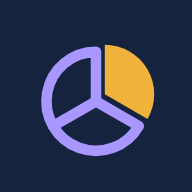
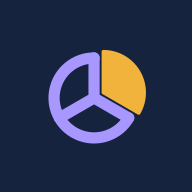
Icônes nettes : redessinées en vectoriel et rendues avec lissage des bords
Claude-Session: https://claude.ai/code/session_01BSJJ47UcXAZ5iQxA68haju

Changed region(s): [[0.1875, 0.2188, 0.8125, 0.8125]]

diff --git a/index.html b/index.html
@@ -9,9 +9,9 @@
 <meta name="apple-mobile-web-app-title" content="Nexus Track">
 <meta name="apple-mobile-web-app-status-bar-style" content="black-translucent">
 <link rel="manifest" href="manifest.webmanifest">
-<link rel="apple-touch-icon" href="apple-touch-icon.png?v=tl2">
+<link rel="apple-touch-icon" href="apple-touch-icon.png?v=tl3">
 <title>Nexus Track</title>
-<link rel="icon" href="icon-192.png?v=tl2">
+<link rel="icon" href="icon-192.png?v=tl3">
 <style>
 *{box-sizing:border-box;-webkit-tap-highlight-color:transparent}
 :root{--bg:#f3f4fa;--card:#fff;--card2:#f6f7fc;--text:#151834;--muted:#6c7193;--line:#e4e6f1;--pri:#5b4cf0;--pri2:#00b8a0;--soft:#eeebff;--danger:#e5484d;--warn:#b45309;--warn-bg:#fff4e0;--ok:#16a34a;--shadow:0 4px 18px rgba(28,30,80,.07);--r:18px;color-scheme:light}
@@ -1809,7 +1809,7 @@ function trialBox(){const ti=trialInfo();
 let TLW_FULL=false;
 (function(){try{const st=document.createElement('style');st.textContent=".tlw{max-width:460px;margin:0 auto;min-height:100vh;background:#f5f7fc;color:#0e1631;font-family:system-ui,-apple-system,'Segoe UI',Roboto,sans-serif;display:flex;flex-direction:column}.tlw-hero{background:#16233f;color:#fff;padding:22px 22px 80px;border-radius:0 0 26px 26px}.tlw-top{display:flex;align-items:center;justify-content:space-between;gap:10px}.tlw-ap{display:flex;align-items:center;gap:10px}.tlw-ap img{width:38px;height:38px;border-radius:10px}.tlw-ap b{display:block;font-size:17px;line-height:1.2}.tlw-ap small{display:block;font-size:12px;color:#b9c3e6}.tlw h1{font-size:30px;line-height:1.15;letter-spacing:-.5px;margin:26px 0 10px;color:#fff}.tlw-hero p{margin:0;color:#c9d1ee;font-size:15px;line-height:1.5}.tlw-prev{margin:-60px 18px 0;background:#fff;border:1px solid #e3e8f2;border-radius:18px;padding:16px;box-shadow:0 10px 30px rgba(16,26,61,.16);position:relative;font-size:13px}.tlw-ph{display:flex;justify-content:space-between;font-size:12px;font-weight:600;color:#4a5468}.tlw-big{font-size:24px;font-weight:800;margin:4px 0 10px;letter-spacing:-.3px}.tlw-row{display:flex;align-items:center;gap:10px;margin-top:9px}.tlw-row span{flex:1}.tlw-row b{font-size:13px}.tlw-bar{height:6px;border-radius:6px;background:#e8ecf4;margin-top:4px}.tlw-bar i{display:block;height:6px;border-radius:6px;background:var(--tlw)}.tlw-av{width:28px;height:28px;border-radius:50%;background:#e8ecf4;display:grid;place-items:center;font-weight:700;font-size:12px;flex:none}.tlw-tip{margin-top:10px;padding:9px 11px;border-radius:12px;background:#fff6e8;color:#7a4508;font-weight:600;font-size:12.5px}.tlw-feats{padding:20px 22px 0;display:flex;flex-direction:column;gap:14px}.tlw-f{display:flex;gap:12px;align-items:center}.tlw-f i{width:40px;height:40px;border-radius:12px;background:#e9edf8;color:var(--tlw);display:grid;place-items:center;flex:none;font-style:normal}.tlw-f b{display:block;font-size:15px}.tlw-f small{color:#4a5468;font-size:13px}.tlw-cta{padding:22px 22px 10px;margin-top:auto}.tlw-btn{width:100%;min-height:54px;border:0;border-radius:14px;background:var(--tlw);color:#fff;font:700 17px system-ui,sans-serif;cursor:pointer}.tlw-sub{text-align:center;font-size:13.5px;color:#4a5468;margin:8px 0 0}.tlw-sub button{background:none;border:0;color:var(--tlw);font:700 13.5px system-ui,sans-serif;cursor:pointer;padding:8px 4px}.tlw-sw{padding:4px 22px 26px}.tlw-top .chip{background:transparent;color:#fff;border:1px solid #3a4878;min-width:38px;height:32px;padding:0 10px;border-radius:99px;font-weight:700}.tlw-top .chip.on{background:#fff;color:#16233f;border-color:#fff}.tlw-top .lang-row{display:flex;gap:6px}";document.head.appendChild(st)}catch(e){}})();
 function tlwHTML(c){return '<div class="tlw" style="--tlw:'+c.accent+'"><div class="tlw-hero"><div class="tlw-top"><div class="tlw-ap"><img src="'+c.icon+'" alt=""><div><b>'+c.name+'</b><small>'+c.by+'</small></div></div>'+(c.top||'')+'</div>'+'<h1>'+c.l1+'<br>'+c.l2+'</h1><p>'+c.sub+'</p></div><div class="tlw-prev" aria-hidden="true">'+c.prev+'</div><div class="tlw-feats">'+c.feats.map(f=>'<div class="tlw-f"><i>'+f[0]+'</i><div><b>'+f[1]+'</b><small>'+f[2]+'</small></div></div>').join('')+'</div>'+'<div class="tlw-cta"><button type="button" class="tlw-btn" data-act="'+c.start+'">'+c.cta+'</button><p class="tlw-sub">'+c.price+' · <button type="button" data-act="'+c.full+'">'+c.have+'</button></p></div><div class="tlw-sw">'+(c.sw||'')+'</div></div>'}
-function vActivation(){if(!trialInfo().started&&!LICENSED&&!TLW_FULL)return tlwHTML({accent:'#5b4cf0',icon:'icon-192.png?v=tl2',name:'Nexus Track',by:'par Thousand Labs',l1:'Suivez vos ventes.',l2:'Partagez vos gains.',sub:'Pour les équipes, les commerçants et les étudiants entrepreneurs. Sans compte, même sans Internet.',prev:'<div class="tlw-ph"><span>Octobre · 3 membres</span><span>Exemple</span></div><div class="tlw-big">67 000 F de ventes</div><div class="tlw-row"><div class="tlw-av">A</div><span><b>Awa</b><div class="tlw-bar"><i style="width:50%"></i></div></span><b>33 500 F</b></div><div class="tlw-row"><div class="tlw-av">M</div><span><b>Moussa</b><div class="tlw-bar"><i style="width:25%"></i></div></span><b>16 750 F</b></div><div class="tlw-row"><div class="tlw-av">F</div><span><b>Fatou</b><div class="tlw-bar"><i style="width:25%"></i></div></span><b>16 750 F</b></div>',feats:[['<svg width="20" height="20" viewBox="0 0 24 24" fill="none" stroke="currentColor" stroke-width="2" stroke-linecap="round" stroke-linejoin="round" aria-hidden="true"><rect x="4" y="3" width="16" height="18" rx="2"/><path d="M8 8h8M8 12h8M8 16h5"/></svg>','Une vente en 3 secondes','Espèces, Wave, Orange Money ou à crédit'],['<svg width="20" height="20" viewBox="0 0 24 24" fill="none" stroke="currentColor" stroke-width="2" stroke-linecap="round" stroke-linejoin="round" aria-hidden="true"><path d="M12 3v9h9"/><circle cx="12" cy="12" r="9"/></svg>','Partage des gains automatique','Selon vos règles, au franc près'],['<svg width="20" height="20" viewBox="0 0 24 24" fill="none" stroke="currentColor" stroke-width="2" stroke-linecap="round" stroke-linejoin="round" aria-hidden="true"><path d="M20 11a8 8 0 0 0-14.5-4.5L4 8M4 4v4h4"/><path d="M4 13a8 8 0 0 0 14.5 4.5L20 16M20 20v-4h-4"/></svg>','Synchro d’équipe chiffrée','Sans compte ni abonnement']],cta:'Essayer gratuitement 48 h',start:'trialStart',price:'Puis 7 500 F par personne, une seule fois',have:'J’ai déjà un code',full:'lockFull',sw:TLL.switcher()});const id=deviceId();const wa='https://wa.me/'+CONTACT+'?text='+encodeURIComponent('Bonjour, je souhaite activer Nexus Track.\nMon ID appareil : '+id);
+function vActivation(){if(!trialInfo().started&&!LICENSED&&!TLW_FULL)return tlwHTML({accent:'#5b4cf0',icon:'icon-192.png?v=tl3',name:'Nexus Track',by:'par Thousand Labs',l1:'Suivez vos ventes.',l2:'Partagez vos gains.',sub:'Pour les équipes, les commerçants et les étudiants entrepreneurs. Sans compte, même sans Internet.',prev:'<div class="tlw-ph"><span>Octobre · 3 membres</span><span>Exemple</span></div><div class="tlw-big">67 000 F de ventes</div><div class="tlw-row"><div class="tlw-av">A</div><span><b>Awa</b><div class="tlw-bar"><i style="width:50%"></i></div></span><b>33 500 F</b></div><div class="tlw-row"><div class="tlw-av">M</div><span><b>Moussa</b><div class="tlw-bar"><i style="width:25%"></i></div></span><b>16 750 F</b></div><div class="tlw-row"><div class="tlw-av">F</div><span><b>Fatou</b><div class="tlw-bar"><i style="width:25%"></i></div></span><b>16 750 F</b></div>',feats:[['<svg width="20" height="20" viewBox="0 0 24 24" fill="none" stroke="currentColor" stroke-width="2" stroke-linecap="round" stroke-linejoin="round" aria-hidden="true"><rect x="4" y="3" width="16" height="18" rx="2"/><path d="M8 8h8M8 12h8M8 16h5"/></svg>','Une vente en 3 secondes','Espèces, Wave, Orange Money ou à crédit'],['<svg width="20" height="20" viewBox="0 0 24 24" fill="none" stroke="currentColor" stroke-width="2" stroke-linecap="round" stroke-linejoin="round" aria-hidden="true"><path d="M12 3v9h9"/><circle cx="12" cy="12" r="9"/></svg>','Partage des gains automatique','Selon vos règles, au franc près'],['<svg width="20" height="20" viewBox="0 0 24 24" fill="none" stroke="currentColor" stroke-width="2" stroke-linecap="round" stroke-linejoin="round" aria-hidden="true"><path d="M20 11a8 8 0 0 0-14.5-4.5L4 8M4 4v4h4"/><path d="M4 13a8 8 0 0 0 14.5 4.5L20 16M20 20v-4h-4"/></svg>','Synchro d’équipe chiffrée','Sans compte ni abonnement']],cta:'Essayer gratuitement 48 h',start:'trialStart',price:'Puis 7 500 F par personne, une seule fois',have:'J’ai déjà un code',full:'lockFull',sw:TLL.switcher()});const id=deviceId();const wa='https://wa.me/'+CONTACT+'?text='+encodeURIComponent('Bonjour, je souhaite activer Nexus Track.\nMon ID appareil : '+id);
   const ti=trialInfo(),over=ti.started&&!ti.active;
   return '<div class="center-screen"><div class="logo-big">'+LOGO+'</div><h1>'+(over?'Gardez Nexus Track':'Activer Nexus Track')+'</h1><p class="muted">'+(over?'Votre essai de 48 h est terminé. Vos données sont conservées : activez l\'appli pour les retrouver.':'Une seule fois, sans abonnement. Un code par téléphone.')+'</p>'+TLL.switcher()+
   (ti.active?trialBox():'')+(TLBUY.init({app:'Nexus Track',vous:true,dev:function(){return id},plans:[{n:1,price:7500},{n:5,price:35000},{n:10,price:60000}],note:'Plus de 10 personnes : par packs de 10 (ex. 30 personnes = 3 × 60 000 F).',lang:function(){return TLL.lang()}}),TLBUY.html())+

diff --git a/sw.js b/sw.js
@@ -1,7 +1,7 @@
 /* Nexus Track — service worker : appli disponible hors ligne, mises à jour automatiques */
-const CACHE = 'nexus-track-v2.27';
+const CACHE = 'nexus-track-v2.28';
 const PREFIX = 'nexus-track-v'; /* les applis Thousand Labs partagent le même domaine : on ne touche qu'à NOS caches */
-const ASSETS = ['./', './index.html', './manifest.webmanifest', './icon-192.png?v=tl2', './icon-512.png?v=tl2', './apple-touch-icon.png?v=tl2'];
+const ASSETS = ['./', './index.html', './manifest.webmanifest', './icon-192.png?v=tl3', './icon-512.png?v=tl3', './apple-touch-icon.png?v=tl3'];
 const OFFLINE = () => new Response(
         '<!doctype html><meta charset="utf-8"><meta name="viewport" content="width=device-width,initial-scale=1"><body style="font-family:sans-serif;padding:24px;text-align:center"><h2>Hors ligne</h2><p>Ouvrez l\'appli une fois avec une connexion pour l\'activer hors ligne, puis réessayez.</p></body>',
         { headers: { 'Content-Type': 'text/html; charset=utf-8' } });
